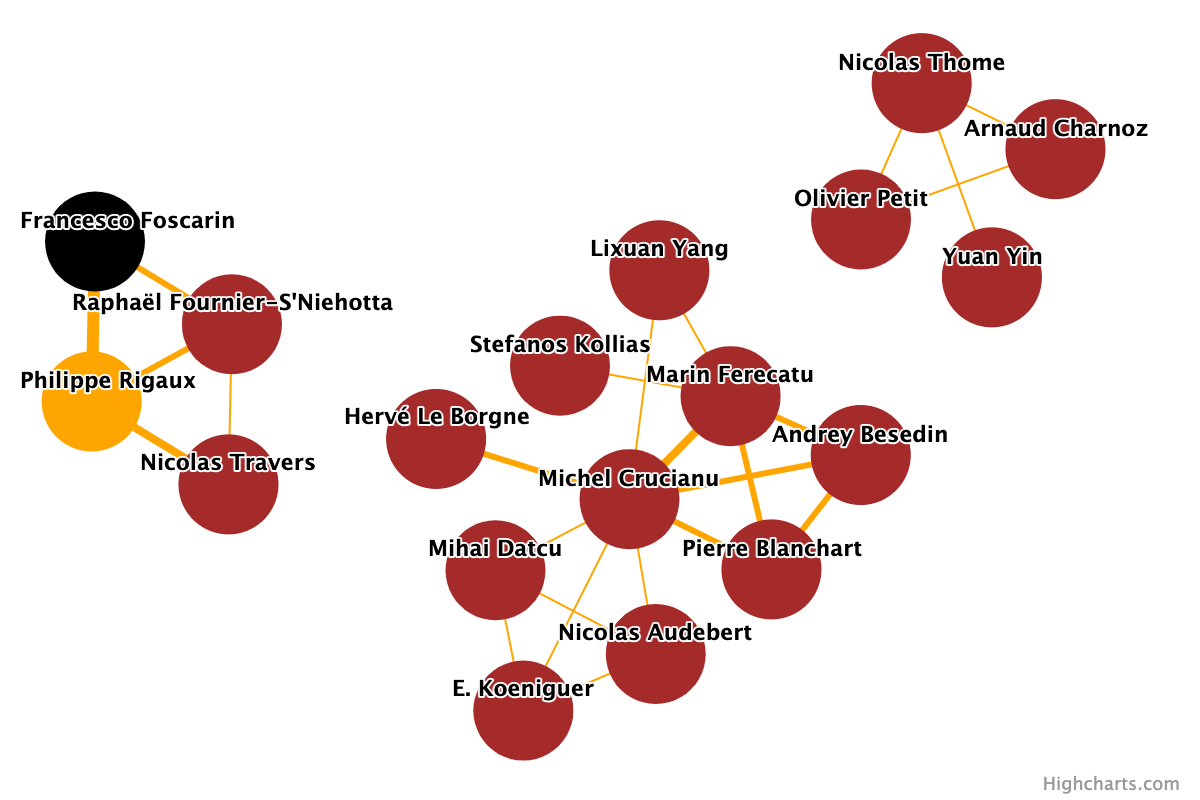
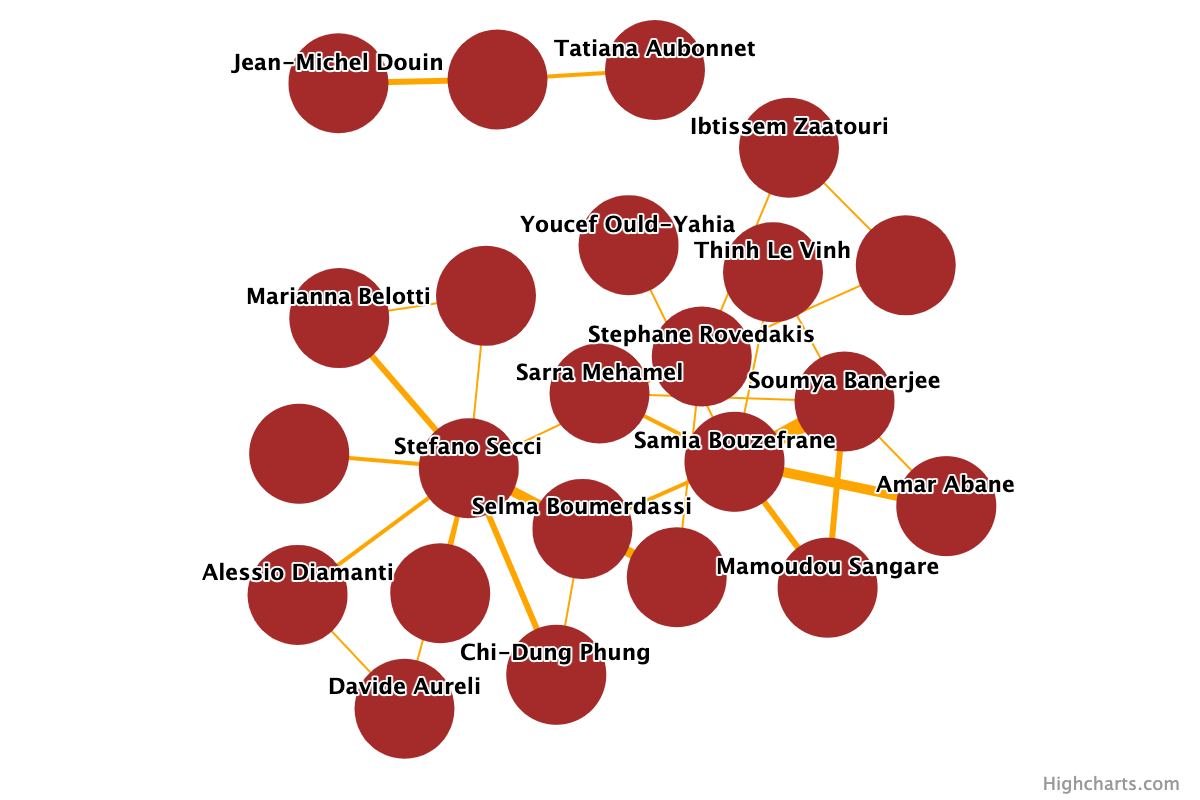
Ajout figures graphe co-auteurs

Changed region(s): [[0.0, 0.0, 0.9558, 0.9688]]

diff --git a/docs/searchindex.js b/docs/searchindex.js
@@ -1,1 +1,1 @@
-Search.setIndex({docnames:["classement","collections","export","index","installation","intro","referentiel","statistiques"],envversion:{"sphinx.domains.c":2,"sphinx.domains.changeset":1,"sphinx.domains.citation":1,"sphinx.domains.cpp":3,"sphinx.domains.index":1,"sphinx.domains.javascript":2,"sphinx.domains.math":2,"sphinx.domains.python":2,"sphinx.domains.rst":2,"sphinx.domains.std":2,sphinx:56},filenames:["classement.rst","collections.rst","export.rst","index.rst","installation.rst","intro.rst","referentiel.rst","statistiques.rst"],objects:{},objnames:{},objtypes:{},terms:{"127":4,"2020":6,"3306":4,"553459":1,"8000":4,"9200":4,"\u00e9chel":3,"\u00e9chou":4,"\u00e9cran":4,"\u00e9crir":4,"\u00e9crit":5,"\u00e9critur":2,"\u00e9dit":4,"\u00e9gal":[1,4,6],"\u00e9numer":4,"\u00e9quip":[1,4,6],"\u00e9tendu":1,"\u00e9tranger":1,"\u00e9tudi":0,"\u00e9vident":4,"\u00e9vit":[0,4],"\u00e9volu":4,"\u00eate":0,"\u00eatre":[0,1,4,5,6],"ann\u00e9":[4,5],"appara\u00eet":[0,4,6],"c\u00e9dric":[0,1,5,6],"c\u00f4t":5,"c\u0153ur":4,"cat\u00e9gor":[0,2],"cha\u00een":[1,6],"cl\u00e9":[1,4,6],"class":[1,2,3,5],"coh\u00e9rent":0,"commen\u00e7on":4,"conf\u00e9rent":[0,6],"contr\u00f4l":6,"cr\u00e9":[2,4],"cr\u00e9ation":[1,2,3],"cr\u00e9dibl":0,"d\u00e9di":5,"d\u00e9faut":[0,2,4],"d\u00e9fin":[0,1,2,4,6],"d\u00e9finit":[3,4],"d\u00e9j\u00e0":[0,1],"d\u00e9limiteur":6,"d\u00e9nomm":0,"d\u00e9p\u00f4t":5,"d\u00e9pos":5,"d\u00e9roul":0,"d\u00e9sign":2,"d\u00e9tail":4,"d\u00e9taillent":4,"d\u00e9termin":6,"d\u00e9velopp":5,"default":4,"del\u00e0":4,"diff\u00e9rent":[1,4,6],"ent\u00eat":6,"entr\u00e9":2,"ex\u00e9cut":[2,4],"export":[1,3,5,6],"g\u00e9n\u00e9ral":[3,4,6],"gr\u00e2c":[1,5],"import":[5,6],"inconv\u00e9nient":5,"indiff\u00e9rent":6,"m\u00e9moris":4,"m\u00eam":[1,6],"man\u0153uvr":4,"n\u00e9cessair":4,"p\u00e9riod":[1,4],"param\u00e9trag":[2,4],"pr\u00e9c\u00e9dent":4,"pr\u00e9caut":4,"pr\u00e9cis":0,"pr\u00e9f\u00e9rer":4,"pr\u00e9fer":0,"pr\u00e9senc":6,"pr\u00e9sent":[2,4,5],"pr\u00eat":[0,4],"proc\u00e9dur":[4,5,6],"r\u00e9colt":4,"r\u00e9cuper":[1,4,5],"r\u00e9f\u00e9renc":[0,2,6],"r\u00e9f\u00e9rent":[0,1,6],"r\u00e9f\u00e9rentiel":[0,3,4,5],"r\u00e9guli":1,"r\u00e9partoir":2,"r\u00e9pertoir":[1,2,4,6],"r\u00e9seau":5,"r\u00e9sultat":1,"r\u00e9sum":5,"r\u00f4d":4,"re\u00e7oivent":0,"requ\u00eat":[1,4],"s\u00e9minair":0,"sp\u00e9cial":1,"sp\u00e9cif":4,"sp\u00e9cifi":4,"t\u00e9l\u00e9charg":2,"v\u00e9rif":4,"v\u00e9rifi":6,"var":4,Ces:2,Cette:[1,5],Elle:[0,4,5],Ici:0,Ils:4,Les:[2,3,4,5,6],Mais:6,Par:4,Pas:4,Pour:[1,4,6],Soit:6,Une:[0,4,6],Vous:[0,1,2,4],Vue:5,absenc:6,acced:[0,1,4,6],acces:[2,5],accessibl:1,accueil:[1,2,4],acronym:[1,6],acte:0,action:1,adapt:[4,6],admin:4,admin_bd_local:4,administr:[0,1,6],adoss:6,adress:[1,4,5],affich:0,affichag:1,aid:2,ains:[2,4],ajout:[1,4,6],all:4,allowed_host:4,alor:[4,5,6],analog:0,analys:1,anne:1,apach:4,api:[],apparaissent:1,appari:[0,4,5],apparten:1,appel:[4,6],appelon:4,appliqu:[0,4,5],appliquent:4,appui:4,apres:[0,4,6],architectur:[4,5],archiv:[1,5],articl:5,assez:5,associ:[4,6],assur:[2,4],attribu:6,aucun:[0,4],aurehal:1,australien:6,aut:2,auteur:[1,5],auteur_id:1,automat:[0,4,5],autr:[0,1,2,4,5],avant:0,aven:2,avoir:[2,4],avon:0,avord:1,backend:4,bas:[1,4,6],base_d:4,bbtex:2,besoin:4,bib:2,bibtex:3,blob:2,bon:4,bouton:0,bref:1,brows:1,car:0,caracter:[1,6],cas:[0,2,4,6],category:1,caus:6,cedric:[1,4,5],cel:[0,2],celui:[0,6],certain:[1,4],ceux:4,chacun:6,chaine_auteur:1,champ:6,champ_plein_text:1,chang:[0,2,4,6],chaqu:[0,1,2,5,6],charact:4,charg:[1,4,6],checklist:4,chemin:4,cherch:6,chois:[0,1,2,5,6],choix:[0,1,2,6],chos:4,chqau:6,christhal:1,clair:0,clarifi:5,clas:0,classement_id:1,classement_valid:1,classementpubl:1,classif:[0,5,6],classiqu:[4,6],cnam:[4,5],coch:0,cod:[0,1,2,4],codecol:2,codif:[0,4,6],collabor:6,collect:[0,2,3,4,5,6],collection_id:1,colon:0,com:[2,4,6],combin:6,comit:[0,6],comm:[2,4,5],command:[2,4],commenc:[0,4],commentair:6,commun:[0,5,6],complet:6,compos:4,comprend:0,compsos:4,compt:[1,2,4,5],concentr:4,condition:0,conf_titr:1,configur:[1,2,5],confirm:0,conform:0,connaiss:1,connect:4,connex:4,connexion:[1,4],conserv:[0,4],consider:6,consist:6,consult:[0,1],contact:1,conten:[2,6],content:3,contenu:5,contiennent:6,contient:[4,6],convient:4,cop:4,cor:0,core_revu:6,correct:[4,6],correspond:[0,6],correspondent:4,corrig:[0,6],court:[1,6],creat:4,createsuperus:4,creationdb:4,cristhal:[0,1,2,4,5,6],cristhaladmin:4,cristhald:[2,4,6],cristhallecteur:4,criter:1,crithal:2,csv:[4,5,6],dan:[0,1,2,4,5,6],databas:4,dblp:6,debug:4,delimiteur:1,demand:[1,5,6],deployment:4,depuis:1,derni:[0,4],descend:6,descript:[1,6],dessous:4,dessus:0,destin:6,deux:[0,4,6],deuxiem:4,dev:[0,1,4],devr:[4,6],difficult:5,direct:[0,1,6],disponibl:5,dispos:4,distinct:4,dit:[4,6],django:[4,5],djangoproject:4,doc:[1,2,4],docu:[2,6],document:[1,4],doit:[0,1,2,4,5,6],domain:[4,6],domaine2:6,domaine3:6,don:[1,3,4,5,6],donc:[0,4,6],donnent:4,dont:[0,4],dot:4,doubl:5,droit:[2,4],edu:6,effectu:[0,1,4,5,6],elastic:4,elastic_search:4,elles:[1,4],email:1,email_contact:1,emplac:4,encor:[0,4],enfin:[0,4,6],engin:4,ensembl:[1,5,6],ensuit:[0,2,6],entier:0,entrant:2,entre:[0,6],entrer:1,environ:[4,5,6],erreur:[0,4],es_index_ref:4,espac:1,essentiel:[2,4,5],etc:[0,4],excel:6,except:[0,4,6],exempl:[0,1,2,4,5,6],exist:[0,2,4,6],existent:1,expert:1,expliqu:4,explor:1,export_d:2,exportd:2,expos:[0,4],extens:6,extrait:0,facil:[2,6],fair:[1,4],fait:[0,2,4,6],fals:4,fauss:4,faut:[2,4,6],fichi:[1,2,4,5,6],fig:[0,1,2,4,5,6],fin:4,fix:0,fois:[0,4],fonction:[0,2,4,6],fonctionnal:5,fonctionnel:5,fonctionnent:4,font:2,form:[2,5,6],format:[1,2,6],formulair:[3,4,5,6],fort:0,fourn:[2,5,6],framework:4,ger:[1,4,5],gestion:[0,3],github:[2,4],grant:4,graph:5,graphiqu:[3,5],gras:1,group:4,gunicorn:4,hait:[],hal:[0,2,3,4,5,6],halid_:[],hasdat:6,haut:[0,2,4],highchart:2,hoc:[5,6],hor:[0,6],host:4,howto:4,http:[1,2,4,5,6],id_hal:1,id_hal_publ:[],identif:6,identifi:[1,5,6],identifiant_sourc:1,identified:4,ignor:1,illustr:[2,4],imag:2,impos:4,incit:5,incomplet:[0,6],incorrect:6,index:[3,4,6],indiqu:[0,4,6],indiquent:4,inflation:5,inform:[1,6],informat:6,init_command:4,init_publ:4,initial:[4,5],inser:1,insert:5,install:[2,3,6],institu:[5,6],instruct:[2,4],integr:[2,4],interfac:[0,1,5],international:[0,5,6],interne_optim:6,interpret:0,interrog:[1,3],intitul:0,introduct:3,invit:0,issu:[0,6],ital:1,javascript:2,join:[2,4],jour:[1,4,6],journal:4,journalrank:6,json:2,justif:6,laboratoir:[0,1,5,6],lanc:4,latex:2,learning:0,lecteur:4,lectur:[0,4,6],lequel:4,libel:1,libr:[0,1,4,5],lien:[1,4],lieu:6,lign:6,limit:1,list:[1,6],local:[0,1,2,4],local_setting:4,local_settings_exempl:4,local_settng:4,localhost:4,log:4,log_d:4,logiciel:[4,5],loin:1,machin:[0,4],mainten:[1,4],mak:2,makefil:2,mal:0,manag:4,manuel:5,mast:2,mauv:6,max:4,mdp_bd_local:4,mdpcristhal:4,mdplecteur:4,medi:[2,4],media_root:[2,4],meilleur:6,menu:[0,1,2,4,6],menu_local_export:[],messag:4,mesur:6,mettr:1,mieux:[0,4],migrat:4,million:4,min:4,minuscul:1,mis:[1,3,6],mod:4,model:2,modif:[1,4],modifi:[0,1,4],modul:[2,3,4],moin:[4,6],moment:[0,1,6],montr:[0,1,5],mot:[4,6],moteur:[0,4,6],nam:4,national:[0,6],navig:4,nginx:4,niveau:[0,2,3,6],nod:2,nom:[1,4,6],nom_bd_local:4,nom_complet:1,nombr:6,nombreux:[4,5,6],nomgraph:2,nomm:[1,2,4],non:6,not:[0,4,6],notion:1,nouveau:1,number:6,objet:4,obten:[0,1,4,6],obtient:[0,1,6],occurrent:1,onglet:6,openoffic:6,oper:[1,4],option:[4,6],ordre:6,outil:2,ouvert:[1,5],ouvrage_titr:1,pag:[0,1,2,3,6],parametr:[0,4],parenthes:6,parm:6,part:[0,2,4,5,6],partag:6,pass:4,passerel:4,password:4,path:[2,4],pdf:[2,5],permet:[0,1,4,5,6],permettr:6,permiss:5,person:1,pertinent:[0,6],peu:[0,4],peut:[0,2,4,6],peuvent:[1,5],phas:1,philipp:5,php:6,pip3:4,pip:4,plac:[2,4,6],plateform:4,plus:[0,1,5,6],plusieur:[4,6],png:5,point:6,port:[0,4,5,6],portail:1,portal:6,posit:6,possibl:[0,1,2,4,6],pourront:4,pouv:[0,1,2,4],pouvoir:4,pratiqu:4,premi:[0,1,4,6],prendr:4,prennent:4,presqu:[1,4],primair:1,princip:[0,4,6],principal:[4,6],priorit:4,privileg:4,processus:4,proch:6,product:[3,5],produir:[2,6],produit:[2,5],propos:[0,2,4,5,6],proposit:[0,5],propr:[0,6],protect:4,publ:1,publi_auteur:1,publi_collect:1,publication_id:1,publiqu:[2,3,4,5,6],puis:[1,4],python3:4,python:[4,5],quatr:0,quelconqu:4,quelqu:[4,6],quitt:[0,4],raison:0,rapport:[2,5],readm:2,recharg:6,recherch:[0,2,3,4,5,6],recommand:1,reconnu:6,ref_local:1,referentiel:1,regl:4,relat:4,report:[1,4],requ:4,requir:4,ressourc:4,rest:[0,4,6],reven:[1,4],revu:[0,6],revue_titr:1,rigal:5,risqu:[0,5],rout:3,runserv:4,sais:[0,4,6],san:[0,1],saur:4,schem:1,scienc:6,scientif:[5,6],scimago:[0,5],scimagojr:6,search:[],second:0,secret:4,secret_key:4,sein:[5,6],select:4,selon:[0,1,2,5,6],ser:6,sert:[1,4],serv:[2,4,6],servic:[4,5],set:4,setrt:0,setting:4,seul:[0,1,2,4],sigl:1,sigle_hal:1,signif:5,similar:6,simpl:6,simplif:6,sinon:4,sit:[4,6],solut:6,sommair:5,souhait:[0,2,4],souhaiton:0,soum:6,sourc:[0,1,3,4],source_id:1,sous:[1,2,4,5,6],sql:[0,4,5],sql_mod:4,standard:4,statist:[1,2,3,5],stock:4,stockag:4,strict_all_t:4,strict_trans_t:4,structur:1,suffix:2,suit:[2,4],suiv:[1,4,5,6],suivr:4,sup:4,suppos:4,supprim:0,synchronis:3,system:[0,2,4,5],tableau:[1,2,4],tableur:6,tard:0,techniqu:4,tel:4,tent:2,test:[4,5],text:[1,6],textuel:6,titr:[1,2,6],toujour:[0,6],tous:[2,4],tout:[0,1,4,6],transform:6,tres:[2,4,5,6],trop:0,trouv:[4,6],trouvent:[2,4],tutoriel:4,txt:4,typ:[0,1,2,6],type_sourc:1,undefined:1,uniqu:[1,4,6],unix:2,user:4,utf8:4,util:5,utilis:[0,1,2,4,6],utilison:6,utilitair:2,valeur:4,valid:[0,5],vari:[5,6],variabl:[4,5],vaut:[0,4],version:4,vertigo:1,via:[0,1,4,5],view:4,virgul:6,voic:[1,4,6],voir:[1,4],voit:0,votr:[0,4],vrai:4,web:5,wsgi:4,www:[2,4,6],zip:2,zipp:2},titles:["Classement des publications","Gestion des collections","Export des donn\u00e9es","Documentation CristHAL","Installation","Introduction","Gestion du r\u00e9f\u00e9rentiel","Les statistiques"],titleterms:{"\u00e9chel":0,"class":[0,6],"cr\u00e9ation":[4,6],"d\u00e9finit":[1,6],"export":2,"g\u00e9n\u00e9ral":7,"r\u00e9f\u00e9rentiel":6,Les:[1,7],acces:4,administr:4,and:3,autr:6,bibtex:2,collect:1,configur:4,cor:6,cristhal:3,document:3,don:2,elasticsearch:4,formulair:[0,1],gestion:[1,6],graphiqu:2,hal:1,indic:3,initialis:4,install:4,interfac:4,intern:6,interrog:6,introduct:5,mis:4,mysql:4,niveau:7,product:4,publiqu:[0,1],recherch:1,rout:4,schem:4,scimago:6,serveur:4,sourc:6,sql:1,statist:7,synchronis:1,tabl:3,web:4}})
+Search.setIndex({docnames:["classement","collections","export","index","installation","intro","referentiel","statistiques"],envversion:{"sphinx.domains.c":2,"sphinx.domains.changeset":1,"sphinx.domains.citation":1,"sphinx.domains.cpp":3,"sphinx.domains.index":1,"sphinx.domains.javascript":2,"sphinx.domains.math":2,"sphinx.domains.python":2,"sphinx.domains.rst":2,"sphinx.domains.std":2,sphinx:56},filenames:["classement.rst","collections.rst","export.rst","index.rst","installation.rst","intro.rst","referentiel.rst","statistiques.rst"],objects:{},objnames:{},objtypes:{},terms:{"127":4,"2020":6,"3306":4,"553459":1,"8000":4,"9200":4,"\u00e9chel":3,"\u00e9chou":4,"\u00e9cran":4,"\u00e9crir":4,"\u00e9crit":5,"\u00e9critur":2,"\u00e9dit":4,"\u00e9gal":[1,4,6],"\u00e9numer":4,"\u00e9quip":[1,4,6],"\u00e9tendu":1,"\u00e9tranger":1,"\u00e9tudi":0,"\u00e9vident":4,"\u00e9vit":[0,4],"\u00e9volu":4,"\u00eate":0,"\u00eatre":[0,1,4,5,6],"ann\u00e9":[4,5],"appara\u00eet":[0,4,6],"c\u00e9dric":[0,1,5,6],"c\u00f4t":5,"c\u0153ur":4,"cat\u00e9gor":[0,2],"cha\u00een":[1,6],"cl\u00e9":[1,4,6],"class":[1,2,3,5],"coh\u00e9rent":0,"commen\u00e7on":4,"conf\u00e9rent":[0,6],"contr\u00f4l":6,"cr\u00e9":[2,4],"cr\u00e9ation":[1,2,3],"cr\u00e9dibl":0,"d\u00e9di":5,"d\u00e9faut":[0,2,4],"d\u00e9fin":[0,1,2,4,6],"d\u00e9finit":[3,4],"d\u00e9j\u00e0":[0,1],"d\u00e9limiteur":6,"d\u00e9nomm":0,"d\u00e9p\u00f4t":5,"d\u00e9pos":5,"d\u00e9roul":0,"d\u00e9sign":2,"d\u00e9tail":4,"d\u00e9taillent":4,"d\u00e9termin":6,"d\u00e9velopp":5,"default":4,"del\u00e0":4,"diff\u00e9rent":[1,4,6],"ent\u00eat":6,"entr\u00e9":2,"ex\u00e9cut":[2,4],"export":[1,3,5,6],"g\u00e9n\u00e9ral":[3,4,6],"gr\u00e2c":[1,5],"import":[5,6],"inconv\u00e9nient":5,"indiff\u00e9rent":6,"m\u00e9moris":4,"m\u00eam":[1,6],"man\u0153uvr":4,"n\u00e9cessair":4,"p\u00e9riod":[1,4],"param\u00e9trag":[2,4],"pr\u00e9c\u00e9dent":4,"pr\u00e9caut":4,"pr\u00e9cis":0,"pr\u00e9f\u00e9rer":4,"pr\u00e9fer":0,"pr\u00e9senc":6,"pr\u00e9sent":[2,4,5],"pr\u00eat":[0,4],"proc\u00e9dur":[4,5,6],"r\u00e9colt":4,"r\u00e9cuper":[1,4,5],"r\u00e9f\u00e9renc":[0,2,6],"r\u00e9f\u00e9rent":[0,1,6],"r\u00e9f\u00e9rentiel":[0,3,4,5],"r\u00e9guli":1,"r\u00e9partoir":2,"r\u00e9pertoir":[1,2,4,6],"r\u00e9seau":5,"r\u00e9sultat":1,"r\u00e9sum":5,"r\u00f4d":4,"re\u00e7oivent":0,"requ\u00eat":[1,4],"s\u00e9minair":0,"sp\u00e9cial":1,"sp\u00e9cif":4,"sp\u00e9cifi":4,"t\u00e9l\u00e9charg":2,"v\u00e9rif":4,"v\u00e9rifi":6,"var":4,Ces:2,Cette:[1,5],Elle:[0,4,5],Ici:0,Ils:4,Les:[2,3,4,5,6],Mais:6,Par:4,Pas:4,Pour:[1,4,6],Soit:6,Une:[0,4,6],Vous:[0,1,2,4],Vue:5,absenc:6,acced:[0,1,4,6],acces:[2,5],accessibl:1,accueil:[1,2,4],acronym:[1,6],acte:0,action:1,adapt:[4,6],admin:4,admin_bd_local:4,administr:[0,1,6],adoss:6,adress:[1,4,5],affich:0,affichag:1,aid:2,ains:[2,4],ajout:[1,4,6],all:4,allowed_host:4,alor:[4,5,6],analog:0,analys:1,anne:1,apach:4,api:[],apparaissent:1,appari:[0,4,5],apparten:1,appel:[4,6],appelon:4,appliqu:[0,4,5],appliquent:4,appui:4,apres:[0,4,6],architectur:[4,5],archiv:[1,5],articl:5,assez:5,associ:[4,6],assur:[2,4],attribu:6,aucun:[0,4],aurehal:1,australien:6,aut:2,auteur:[1,5],auteur_id:1,automat:[0,4,5],autr:[0,1,2,4,5],avant:0,aven:2,avoir:[2,4],avon:0,avord:1,backend:4,bas:[1,4,6],base_d:4,bbtex:2,besoin:4,bib:2,bibtex:[3,5],blob:2,bon:4,bouton:0,bref:1,brows:1,car:0,caracter:[1,6],cas:[0,2,4,6],category:1,caus:6,cedric:[1,4,5],cel:[0,2],celui:[0,6],certain:[1,4],ceux:4,chacun:6,chaine_auteur:1,champ:6,champ_plein_text:1,chang:[0,2,4,6],chaqu:[0,1,2,5,6],charact:4,charg:[1,4,6],checklist:4,chemin:4,cherch:6,chois:[0,1,2,5,6],choix:[0,1,2,6],chos:4,chqau:6,christhal:1,clair:0,clarifi:5,clas:0,classement_id:1,classement_valid:1,classementpubl:1,classif:[0,5,6],classiqu:[4,6],cnam:[4,5],coch:0,cod:[0,1,2,4],codecol:2,codif:[0,4,6],collabor:[5,6],collect:[0,2,3,4,5,6],collection_id:1,colon:0,com:[2,4,6],combin:6,comit:[0,6],comm:[2,4,5],command:[2,4],commenc:[0,4],commentair:6,commun:[0,5,6],complet:6,compos:4,comprend:0,compsos:4,compt:[1,2,4,5],concentr:4,condition:0,conf_titr:1,configur:[1,2,5],confirm:0,conform:0,connaiss:1,connect:4,connex:4,connexion:[1,4],conserv:[0,4],consider:6,consist:6,consult:[0,1],contact:1,conten:[2,6],content:3,contenu:5,contiennent:6,contient:[4,6],convient:4,cop:4,cor:0,core_revu:6,correct:[4,6],correspond:[0,6],correspondent:4,corrig:[0,6],court:[1,6],creat:4,createsuperus:4,creationdb:4,cristhal:[0,1,2,4,5,6],cristhaladmin:4,cristhald:[2,4,6],cristhallecteur:4,criter:1,crithal:2,csv:[4,5,6],dan:[0,1,2,4,5,6],databas:4,dblp:6,debug:4,delimiteur:1,demand:[1,5,6],deployment:4,depuis:1,derni:[0,4],descend:6,descript:[1,6],dessous:4,dessus:0,destin:6,deux:[0,4,6],deuxiem:4,dev:[0,1,4],devr:[4,6],difficult:5,direct:[0,1,6],disponibl:5,dispos:4,distinct:4,dit:[4,6],django:[4,5],djangoproject:4,doc:[1,2,4],docu:[2,6],document:[1,4],doit:[0,1,2,4,5,6],domain:[4,6],domaine2:6,domaine3:6,don:[1,3,4,5,6],donc:[0,4,6],donnent:4,dont:[0,4],dot:4,doubl:5,droit:[2,4],edu:6,effectu:[0,1,4,5,6],elastic:4,elastic_search:4,elles:[1,4],email:1,email_contact:1,emplac:4,encor:[0,4],enfin:[0,4,6],engin:4,ensembl:[1,5,6],ensuit:[0,2,6],entier:0,entrant:2,entre:[0,5,6],entrer:1,environ:[4,5,6],erreur:[0,4],es_index_ref:4,espac:1,essentiel:[2,4,5],etc:[0,4],excel:6,except:[0,4,6],exempl:[0,1,2,4,5,6],exist:[0,2,4,6],existent:1,expert:1,expliqu:4,explor:1,export_d:2,exportd:2,expos:[0,4],extens:6,extrait:0,facil:[2,6],fair:[1,4],fait:[0,2,4,6],fals:4,fauss:4,faut:[2,4,6],fichi:[1,2,4,5,6],fig:[0,1,2,4,5,6],figur:5,fin:4,fix:0,fois:[0,4],fonction:[0,2,4,6],fonctionnal:5,fonctionnel:5,fonctionnent:4,font:2,form:[2,5,6],format:[1,2,6],formulair:[3,4,5,6],fort:0,fourn:[2,5,6],framework:4,ger:[1,4,5],gestion:[0,3],github:[2,4],grant:4,graph:5,graphiqu:[3,5],gras:1,group:4,gunicorn:4,hait:[],hal:[0,2,3,4,5,6],halid_:[],hasdat:6,haut:[0,2,4],highchart:2,hoc:[5,6],hor:[0,6],host:4,howto:4,http:[1,2,4,5,6],id_hal:1,id_hal_publ:[],identif:6,identifi:[1,5,6],identifiant_sourc:1,identified:4,ignor:1,illustr:[2,4],imag:2,impos:4,incit:5,incomplet:[0,6],incorrect:6,index:[3,4,6],indiqu:[0,4,6],indiquent:4,inflation:5,inform:[1,6],informat:6,init_command:4,init_publ:4,initial:[4,5],inser:1,insert:5,install:[2,3,6],institu:[5,6],instruct:[2,4],integr:[2,4],interfac:[0,1,5],international:[0,5,6],interne_optim:6,interpret:0,interrog:[1,3],intitul:0,introduct:3,invit:0,issu:[0,6],ital:1,javascript:2,join:[2,4],jour:[1,4,6],journal:4,journalrank:6,json:2,justif:6,laboratoir:[0,1,5,6],lanc:4,latex:[2,5],learning:0,lecteur:4,lectur:[0,4,6],lequel:4,libel:1,libr:[0,1,4,5],lien:[1,4],lieu:6,lign:6,limit:1,list:[1,6],local:[0,1,2,4],local_setting:4,local_settings_exempl:4,local_settng:4,localhost:4,log:4,log_d:4,logiciel:[4,5],loin:1,machin:[0,4],mainten:[1,4],mak:2,makefil:2,mal:0,manag:4,manuel:5,mast:2,mauv:6,max:4,mdp_bd_local:4,mdpcristhal:4,mdplecteur:4,medi:[2,4],media_root:[2,4],meilleur:6,menu:[0,1,2,4,6],menu_local_export:[],messag:4,mesur:6,mettr:1,mieux:[0,4],migrat:4,million:4,min:4,minuscul:1,mis:[1,3,6],mod:4,model:2,modif:[1,4],modifi:[0,1,4],modul:[2,3,4],moin:[4,6],moment:[0,1,6],montr:[0,1,5],mot:[4,6],moteur:[0,4,6],nam:4,national:[0,6],navig:4,nginx:4,niveau:[0,2,3,6],nod:2,nom:[1,4,6],nom_bd_local:4,nom_complet:1,nombr:6,nombreux:[4,5,6],nomgraph:2,nomm:[1,2,4],non:6,not:[0,4,6],notion:1,nouveau:1,number:6,objet:4,obten:[0,1,4,6],obtient:[0,1,6],occurrent:1,onglet:6,openoffic:6,oper:[1,4],option:[4,6],ordre:6,outil:2,ouvert:[1,5],ouvrage_titr:1,pag:[0,1,2,3,6],parametr:[0,4],parenthes:6,parm:6,part:[0,2,4,5,6],partag:6,pass:4,passerel:4,password:4,path:[2,4],pdf:[2,5],permet:[0,1,4,5,6],permettr:6,permiss:5,person:1,pertinent:[0,6],peu:[0,4],peut:[0,2,4,6],peuvent:[1,5],phas:1,philipp:5,php:6,pip3:4,pip:4,plac:[2,4,6],plateform:4,plus:[0,1,5,6],plusieur:[4,6],png:5,point:6,port:[0,4,5,6],portail:1,portal:6,posit:6,possibl:[0,1,2,4,6],pourront:4,pouv:[0,1,2,4],pouvoir:4,pratiqu:4,premi:[0,1,4,6],prendr:4,prennent:4,presqu:[1,4],primair:1,princip:[0,4,6],principal:[4,6],priorit:4,privileg:4,processus:4,proch:6,product:[3,5],produir:[2,6],produit:[2,5],propos:[0,2,4,5,6],proposit:[0,5],propr:[0,6],protect:4,publ:1,publi_auteur:1,publi_collect:1,publication_id:1,publiqu:[2,3,4,5,6],puis:[1,4],python3:4,python:[4,5],quatr:0,quelconqu:4,quelqu:[4,6],quitt:[0,4],raison:0,rapport:[2,5],readm:2,recharg:6,recherch:[0,2,3,4,5,6],recommand:1,reconnu:6,ref_local:1,referentiel:1,regl:4,relat:4,report:[1,4],requ:4,requir:4,ressourc:4,rest:[0,4,6],reven:[1,4],revu:[0,6],revue_titr:1,rigal:5,risqu:[0,5],rout:3,runserv:4,sais:[0,4,6],san:[0,1],saur:4,schem:1,scienc:6,scientif:[5,6],scimago:[0,5],scimagojr:6,search:[],second:0,secret:4,secret_key:4,sein:[5,6],select:4,selon:[0,1,2,5,6],ser:6,sert:[1,4],serv:[2,4,6],servic:[4,5],set:4,setrt:0,setting:4,seul:[0,1,2,4],sigl:1,sigle_hal:1,signif:5,similar:6,simpl:6,simplif:6,sinon:4,sit:[4,6],solut:6,sommair:5,souhait:[0,2,4],souhaiton:0,soum:6,sourc:[0,1,3,4],source_id:1,sous:[1,2,4,5,6],sql:[0,4,5],sql_mod:4,standard:4,statist:[1,2,3,5],stock:4,stockag:4,strict_all_t:4,strict_trans_t:4,structur:1,suffix:2,suit:[2,4],suiv:[1,4,5,6],suivr:4,sup:4,suppos:4,supprim:0,synchronis:3,system:[0,2,4,5],tableau:[1,2,4],tableur:6,tard:0,techniqu:4,tel:4,tent:2,test:[4,5],text:[1,6],textuel:6,titr:[1,2,6],toujour:[0,6],tous:[2,4],tout:[0,1,4,6],transform:6,tres:[2,4,5,6],trop:0,trouv:[4,6],trouvent:[2,4],tutoriel:4,txt:4,typ:[0,1,2,6],type_sourc:1,undefined:1,uniqu:[1,4,6],unix:2,user:4,utf8:4,util:5,utilis:[0,1,2,4,6],utilison:6,utilitair:2,valeur:4,valid:[0,5],vari:[5,6],variabl:[4,5],vaut:[0,4],version:4,vertigo:1,via:[0,1,4,5],view:4,virgul:6,voic:[1,4,6],voir:[1,4],voit:0,votr:[0,4],vrai:4,web:5,wsgi:4,www:[2,4,6],zip:2,zipp:2},titles:["Classement des publications","Gestion des collections","Export des donn\u00e9es","Documentation CristHAL","Installation","Introduction","Gestion du r\u00e9f\u00e9rentiel","Les statistiques"],titleterms:{"\u00e9chel":0,"class":[0,6],"cr\u00e9ation":[4,6],"d\u00e9finit":[1,6],"export":2,"g\u00e9n\u00e9ral":7,"r\u00e9f\u00e9rentiel":6,Les:[1,7],acces:4,administr:4,and:3,autr:6,bibtex:2,collect:1,configur:4,cor:6,cristhal:3,document:3,don:2,elasticsearch:4,formulair:[0,1],gestion:[1,6],graphiqu:2,hal:1,indic:3,initialis:4,install:4,interfac:4,intern:6,interrog:6,introduct:5,mis:4,mysql:4,niveau:7,product:4,publiqu:[0,1],recherch:1,rout:4,schem:4,scimago:6,serveur:4,sourc:6,sql:1,statist:7,synchronis:1,tabl:3,web:4}})

diff --git a/docs/intro.html b/docs/intro.html
@@ -192,9 +192,12 @@ De nombreuses statistiques peuvent alors être produites.</p>
 <li><p>Configuration des collections HAL et import des référentiels fournis sous la forme de fichiers CSV</p></li>
 <li><p>Récupération automatique des publications de chaque collection</p></li>
 <li><p>Classement automatique suivi d’une validation manuelle</p></li>
-<li><p>Production de graphiques et statistiques variées (<a class="reference internal" href="#stats-generales"><span class="std std-numref">Fig. 2</span></a> et <a class="reference internal" href="#stats-annee-classement"><span class="std std-numref">Fig. 4</span></a>)</p></li>
+<li><p>Production de graphiques et statistiques variées
+(<a class="reference internal" href="#stats-generales"><span class="std std-numref">Fig. 2</span></a> et <a class="reference internal" href="#stats-annee-classement"><span class="std std-numref">Fig. 4</span></a>) sur les publications classées</p></li>
+<li><p>Graphes de collaborations entre auteurs et entre collections (<a class="reference internal" href="#reseau-coauteurs"><span class="std std-numref">Fig. 3</span></a>)</p></li>
 <li><p>Recherche des publications par formulaire ou par SQL</p></li>
-<li><p>Export en PDF ou PNG des données pour insertion dans des rapports et présentations</p></li>
+<li><p>Export des figures en PDF ou PNG</p></li>
+<li><p>Exports en Latex, Bibtex ou CSV des données pour insertion dans des rapports et présentations</p></li>
 </ul>
 </div></blockquote>
 <div class="figure align-center" id="id2">
@@ -238,7 +241,7 @@ par Philippe Rigaux.</p>
         
         
         
-          Built with <a href="https://www.sphinx-doc.org/en/master/">Sphinx</a> on 2021/04/19 using the <a href="https://github.com/audeering/sphinx-audeering-theme/">audEERING theme</a>
+          Built with <a href="https://www.sphinx-doc.org/en/master/">Sphinx</a> on 2021/04/24 using the <a href="https://github.com/audeering/sphinx-audeering-theme/">audEERING theme</a>
         
     </p>
   </div>

diff --git a/docs/genindex.html b/docs/genindex.html
@@ -180,7 +180,7 @@
         
         
         
-          Built with <a href="https://www.sphinx-doc.org/en/master/">Sphinx</a> on 2021/04/19 using the <a href="https://github.com/audeering/sphinx-audeering-theme/">audEERING theme</a>
+          Built with <a href="https://www.sphinx-doc.org/en/master/">Sphinx</a> on 2021/04/24 using the <a href="https://github.com/audeering/sphinx-audeering-theme/">audEERING theme</a>
         
     </p>
   </div>

diff --git a/docs/index.html b/docs/index.html
@@ -232,7 +232,7 @@
         
         
         
-          Built with <a href="https://www.sphinx-doc.org/en/master/">Sphinx</a> on 2021/04/19 using the <a href="https://github.com/audeering/sphinx-audeering-theme/">audEERING theme</a>
+          Built with <a href="https://www.sphinx-doc.org/en/master/">Sphinx</a> on 2021/04/24 using the <a href="https://github.com/audeering/sphinx-audeering-theme/">audEERING theme</a>
         
     </p>
   </div>

diff --git a/docs/search.html b/docs/search.html
@@ -186,7 +186,7 @@
         
         
         
-          Built with <a href="https://www.sphinx-doc.org/en/master/">Sphinx</a> on 2021/04/19 using the <a href="https://github.com/audeering/sphinx-audeering-theme/">audEERING theme</a>
+          Built with <a href="https://www.sphinx-doc.org/en/master/">Sphinx</a> on 2021/04/24 using the <a href="https://github.com/audeering/sphinx-audeering-theme/">audEERING theme</a>
         
     </p>
   </div>

diff --git a/docsrc/intro.rst b/docsrc/intro.rst
@@ -36,10 +36,12 @@ Les fonctionnalités de CristHAL sont les suivantes
   - Configuration des collections HAL et import des référentiels fournis sous la forme de fichiers CSV
   - Récupération automatique des publications de chaque collection
   - Classement automatique suivi d'une validation manuelle
-  - Production de graphiques et statistiques variées (:numref:`stats-generales` et :numref:`stats_annee_classement`) 
+  - Production de graphiques et statistiques variées 
+    (:numref:`stats-generales` et :numref:`stats_annee_classement`) sur les publications classées
+  - Graphes de collaborations entre auteurs et entre collections (:numref:`reseau-coauteurs`)
   - Recherche des publications par formulaire ou par SQL
-  - Export en PDF ou PNG des données pour insertion dans des rapports et présentations
-
+  - Export des figures en PDF ou PNG 
+  - Exports en Latex, Bibtex ou CSV des données pour insertion dans des rapports et présentations
 
 .. _stats-generales:
 .. figure:: ./figures/stats-generales.png       
